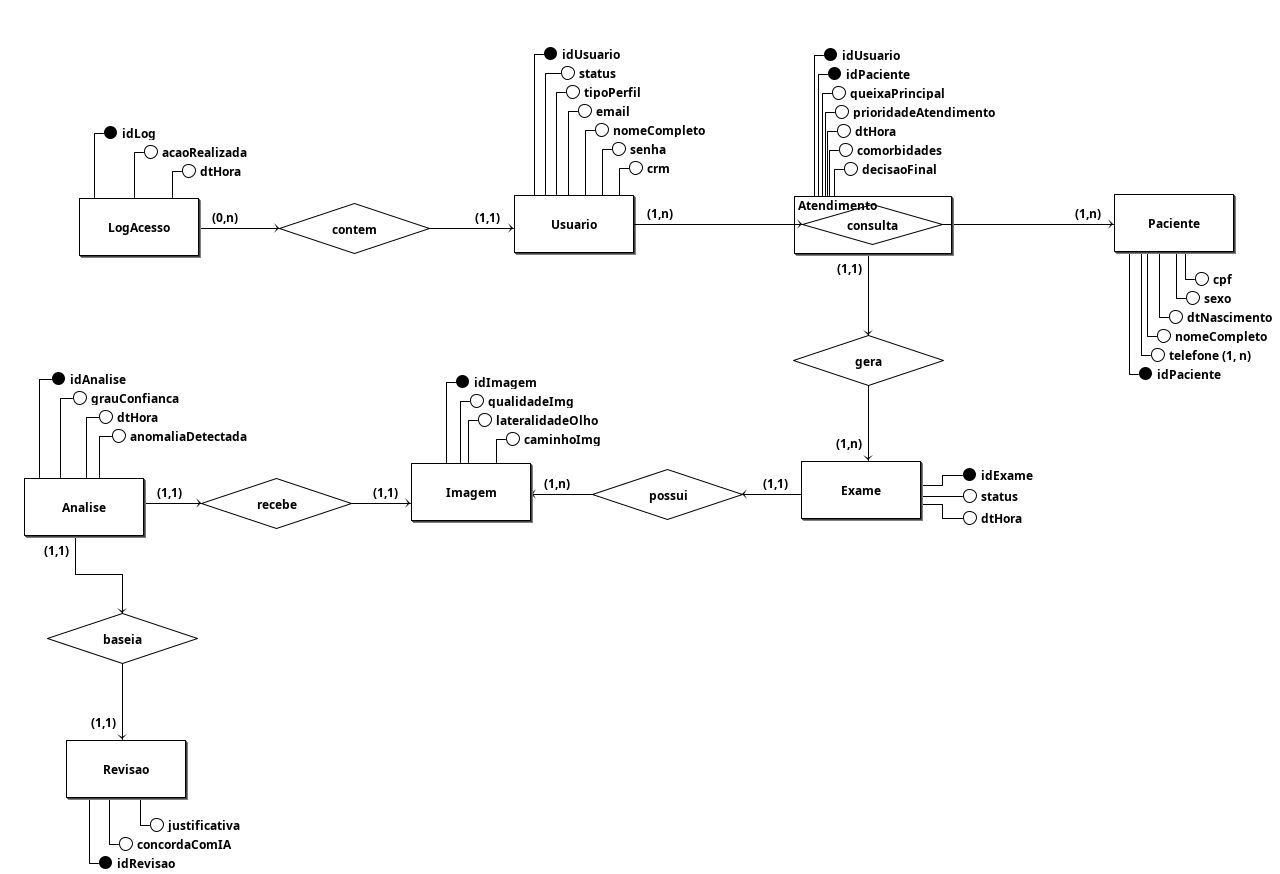
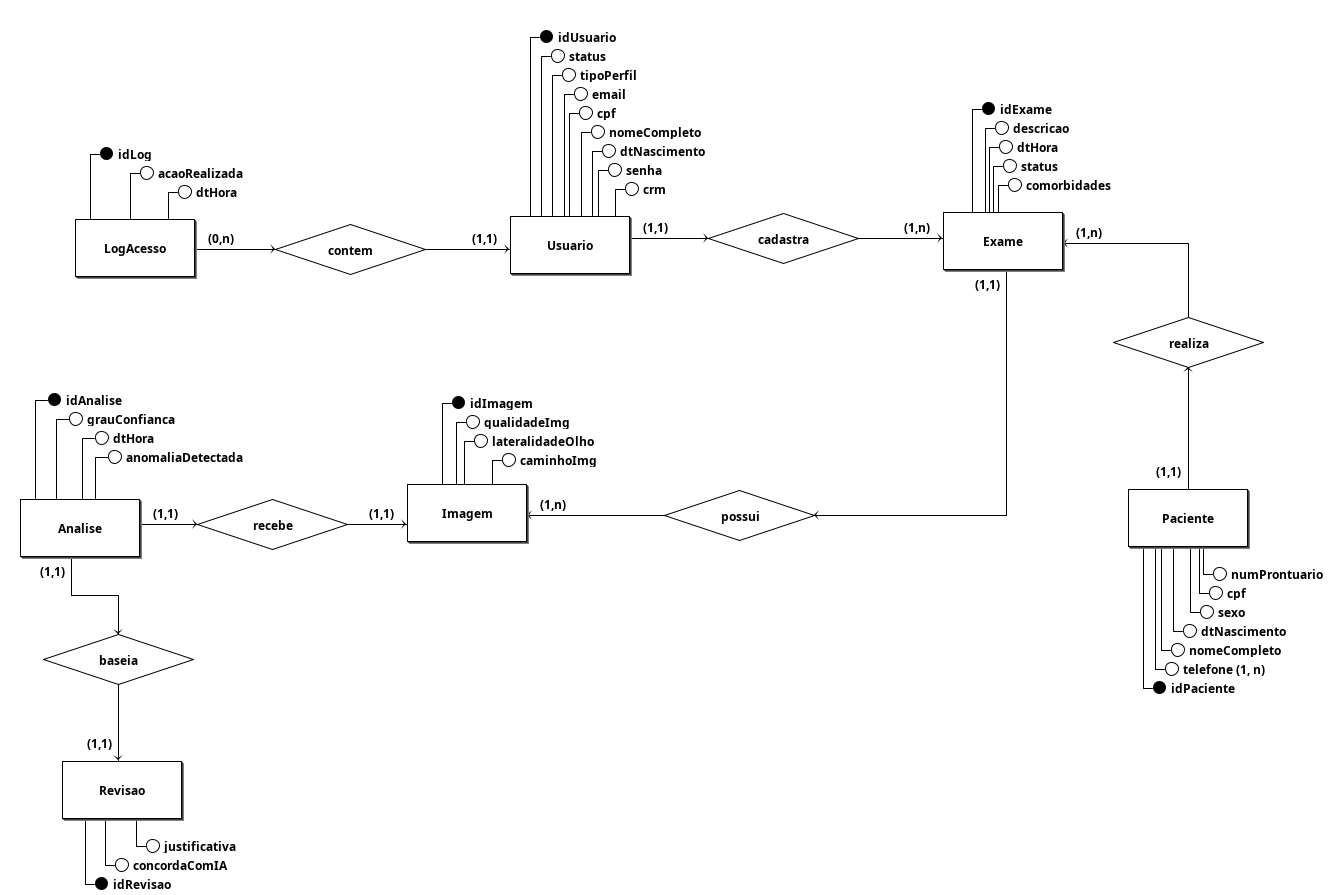
docs: corrige documentação do banco

diff --git a/docs/projeto/modelagem-do-BD.md b/docs/projeto/modelagem-do-BD.md
@@ -4,18 +4,16 @@
 * Usuario
 * LogAcesso
 * Paciente
-* Atendimento
 * Exame
 * Imagem
-* AnaliseIA
+* Analise
 * Revisao
 
 ## Descrição das Entidades
-* **Usuario** (<u>idUsuario</u>, nomeCompleto, crm, email, senha, tipoPerfil, status)
+* **Usuario** (<u>idUsuario</u>, nomeCompleto, cpf, dtNascimento, crm, email, senha, tipoPerfil, status)
 * **LogAcesso** (<u>idLog</u>, dtHora, acaoRealizada)
-* **Paciente** (<u>idPaciente</u>, nomeCompleto, cpf, dtNascimento, sexo, {telefone})
-* **Atendimento** (<u>idPaciente</u>, <u>idUsuario</u>, dtHora, queixaPrincipal, comorbidades, decisaoFinal, proridadeAtendimento)
-* **Exame** (<u>idExame</u>, dtHora, status)
+* **Paciente** (<u>idPaciente</u>, nomeCompleto, cpf, numProntuario, dtNascimento, sexo, {telefone})
+* **Exame** (<u>idExame</u>, descricao, dtHora, status, comorbidades)
 * **Imagem** (<u>idImagem</u>, lateralidadeOlho, caminhoImg, qualidadeImg)
 * **Analise** (<u>idAnalise</u>, anomaliaDetectada, grauConfianca, dtHora)
 * **Revisao** (<u>idRevisao</u>, concordaComIA, justificativa)
@@ -26,13 +24,13 @@
     * Um LogAcesso contém as informações de um e somente um Usuario, enquanto um Usuario pode estar contido em um ou mais LogAcesso.
     * Cardinalidade: **(n:1)**
 
-* Usuario - **consulta** - Paciente
-    * Um Usuario consulta um ou mais Pacientes e um Paciente pode ser consultado por um ou mais Usuarios.
-    * Cardinalidade: **(n:m)**
+* Usuario - **cadastra** - Exame
+    * Um Usuario (Médico) pode cadastrar um ou mais Exames, já um Exame está atrelado a um e somente um Usuario.
+    * Cardinalidade: **(1:n)**
 
-* Atendimento - **gera** - Exame
-    * Um Atendimento pode gerar um ou mais Exames, já um Exame está atrelado a um e somente um Atendimento.
-    * Cardinalidade: **(n:1)**
+* Paciente - **realiza** - Exame
+    * Um Paciente pode realizar um ou mais Exames, já um Exame está atrelado a um e somente um Paciente.
+    * Cardinalidade: **(1:n)**
 
 * Exame - **possui** - Imagem
     * Um Exame possui uma ou mais Imagens, e uma Imagem é possuída por um e apenas um Exame.
@@ -74,6 +72,9 @@
 | senha | obrigatório | varchar | 255 | Senha de acesso criptografada |
 | tipoPerfil | obrigatório | enum | - | Nível de acesso (ex: ADMIN, MEDICO_TRIAGEM) |
 | status | obrigatório | varchar | 20 | Situação do cadastro (ex: Ativo, Inativo) |
+| cpf    | obrigatório, único |	varchar | 14 | CPF do usuário |
+| dtNascimento |obrigatório | date | - | Data de nascimento do usuário |
+
 
 ### LogAcesso
 
@@ -99,6 +100,7 @@
 | cpf | obrigatório, único | varchar | 14 | CPF ou Cartão SUS do paciente |
 | dtNascimento | obrigatório | date | - | Data de nascimento para cálculo de idade |
 | sexo | obrigatório | varchar | 20 | Sexo biológico do paciente |
+| numProntuario | obrigatório, único | varchar | 50 | Número do prontuário identificador na UBS |
 
 ### Telefone
 
@@ -110,21 +112,6 @@
 | idPaciente | chave primária, chave estrangeira, obrigatorio | int | - | Identificador do Paciente Vinculado |
 | numeroTelefone | chave primária, obrigatório | varchar | 20 | Número de telefone de contato |
 
-### Atendimento
-
-* **Esclarecimento Técnico:** Tabela proveniente de uma Entidade Associativa.
-* **Descrição:** Registra o evento da consulta/triagem, conectando o usuário (profissional) ao paciente em uma data específica.
-
-| Atributo | Propriedades do Atributo | Tipo de Dados | Tamanho | Descrição |
-| -------- | ------------------------ | :-----------: | :-----: | --------- |
-| idUsuario | chave primária, chave estrangeira, obrigatório | int | - | Identificador do profissional que realizou o atendimento |
-| idPaciente | chave primária, chave estrangeira, obrigatório | int | - | Identificador do paciente atendido |
-| dtHora | obrigatório | timestamp | - | Data e hora em que o atendimento foi iniciado |
-| queixaPrincipal | obrigatório | text | - | Relato dos sintomas ou motivo da visita |
-| comorbidades | opcional | text | - | Doenças pré-existentes (ex: diabetes, hipertensão) |
-| decisaoFinal | obrigatório | varchar | 100 | Encaminhamento realizado (ex: Encaminhado ao Oftalmologista) |
-| proridadeAtendimento | obrigatório | varchar | 50 | Nível de urgência definido na triagem (ex: Alta, Normal) |
-
 ### Exame
 
 * **Esclarecimento Técnico:** Tabela proveniente de uma Entidade.
@@ -132,10 +119,13 @@
 
 | Atributo | Propriedades do Atributo | Tipo de Dados | Tamanho | Descrição |
 | -------- | ------------------------ | :-----------: | :-----: | --------- |
-| idExame | chave primária, obrigatório | int | - | Identificador único do exame |
-| idAtendimento | chave estrangeira, obrigatório | int | - | Identificador do atendimento gerador do exame |
+| idExame | chave primária, obrigatório | uuid | - | Identificador único do exame |
+| idUsuario | chave estrangeira, obrigatório | int | - | Identificador do usuário gerador do exame |
+| idPaciente | chave estrangeira, obrigatório | int | - | Identificador do paciente que realiza o exame |
 | dtHora | obrigatório | timestamp | - | Data e hora da realização da captura |
 | status | obrigatório | varchar | 50 | Situação atual do exame (ex: Concluído, Em Processamento) |
+| comorbidades | opcional | text | - | Histórico de comorbidades relatadas no momento do exame |
+| descricao | opcional | text | - | Descrição de queixas, anotações clínicas e observações do médico |
 
 ### Imagem
 
@@ -145,7 +135,7 @@
 | Atributo | Propriedades do Atributo | Tipo de Dados | Tamanho | Descrição |
 | -------- | ------------------------ | :-----------: | :-----: | --------- |
 | idImagem | chave primária, obrigatório | uuid | 36 | Identificador único da imagem |
-| idExame | chave estrangeira, obrigatório | int | - | Identificador do exame ao qual a foto pertence |
+| idExame | chave estrangeira, obrigatório | uuid | - | Identificador do exame ao qual a foto pertence |
 | lateralidadeOlho | obrigatório | varchar | 20 | Indica se é o Olho Direito ou Olho Esquerdo |
 | caminhoImg | obrigatório | varchar | 255 | URL ou caminho do arquivo anonimizado no servidor/storage |
 | qualidadeImg | obrigatório | varchar | 50 | Status do pré-processamento (ex: Adequada, Inadequada) |
@@ -181,3 +171,4 @@
 | Versão | Data       | Descrição | Autor        | Revisor      |
 | :----: | ---------- | --------- | ------------ | ------------ |
 | `1.0`  | 11/04/2026 | Criação do documento de modelagem do Banco de Dados       | [André Maia](https://github.com/andre-maia51) | [xxxx](xxxx) |
+| `1.1`  | 15/04/2026 | Adaptação no modelo de BD para se adequar corretamente as regras de negócio       | [André Maia](https://github.com/andre-maia51) | [xxxx](xxxx) |
